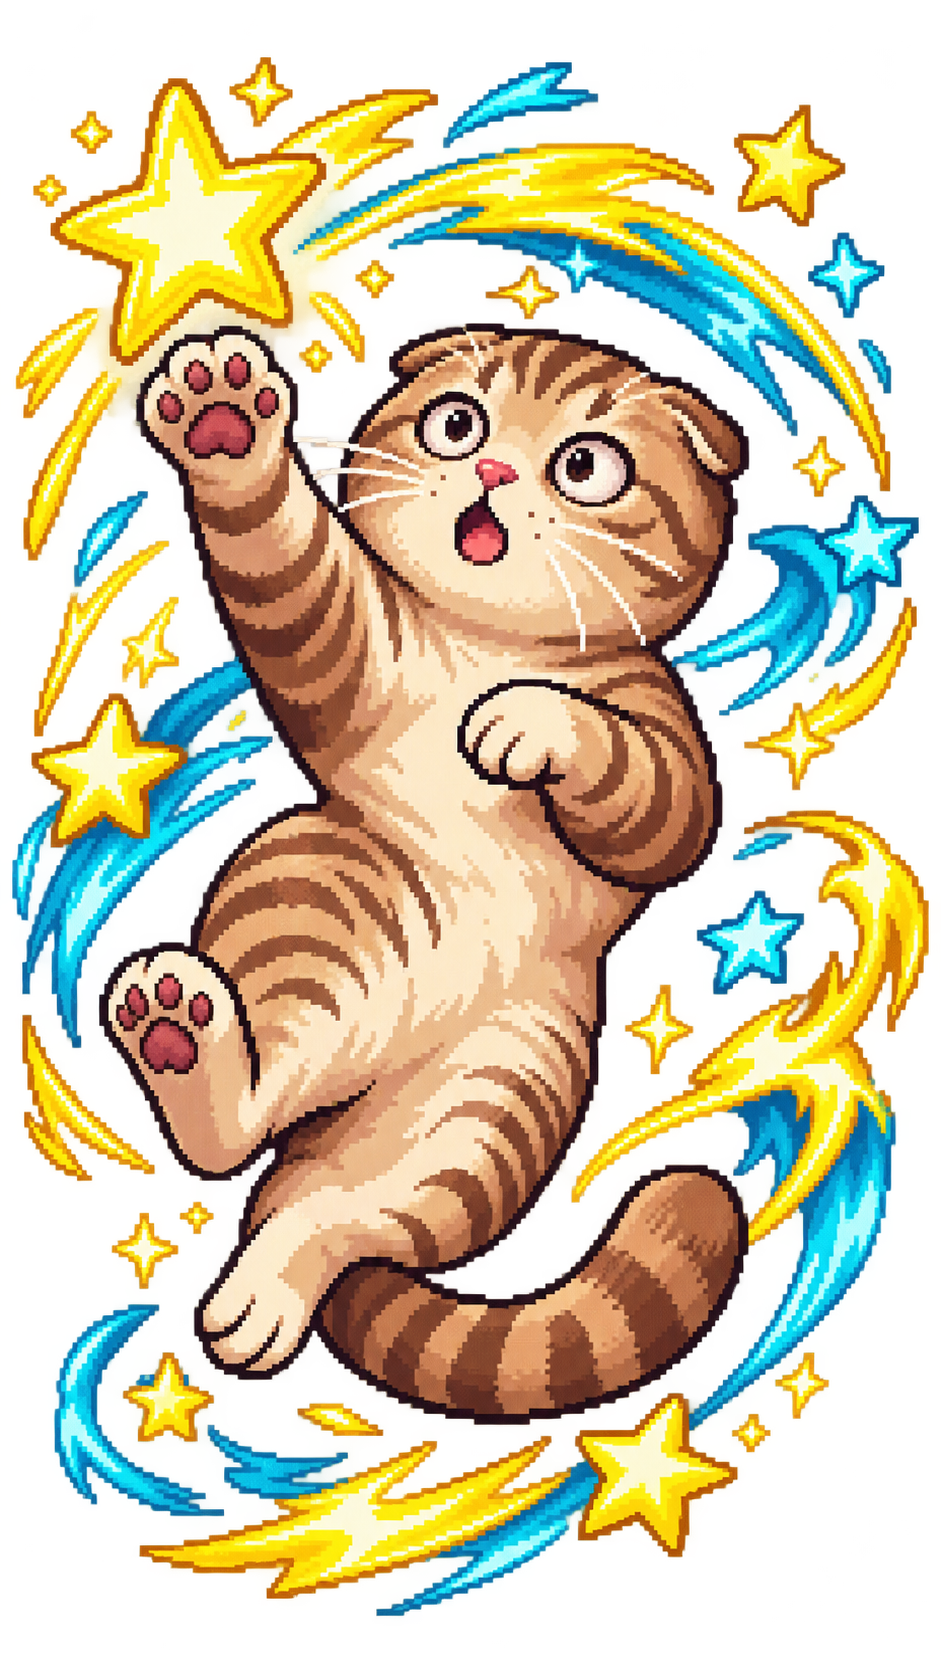
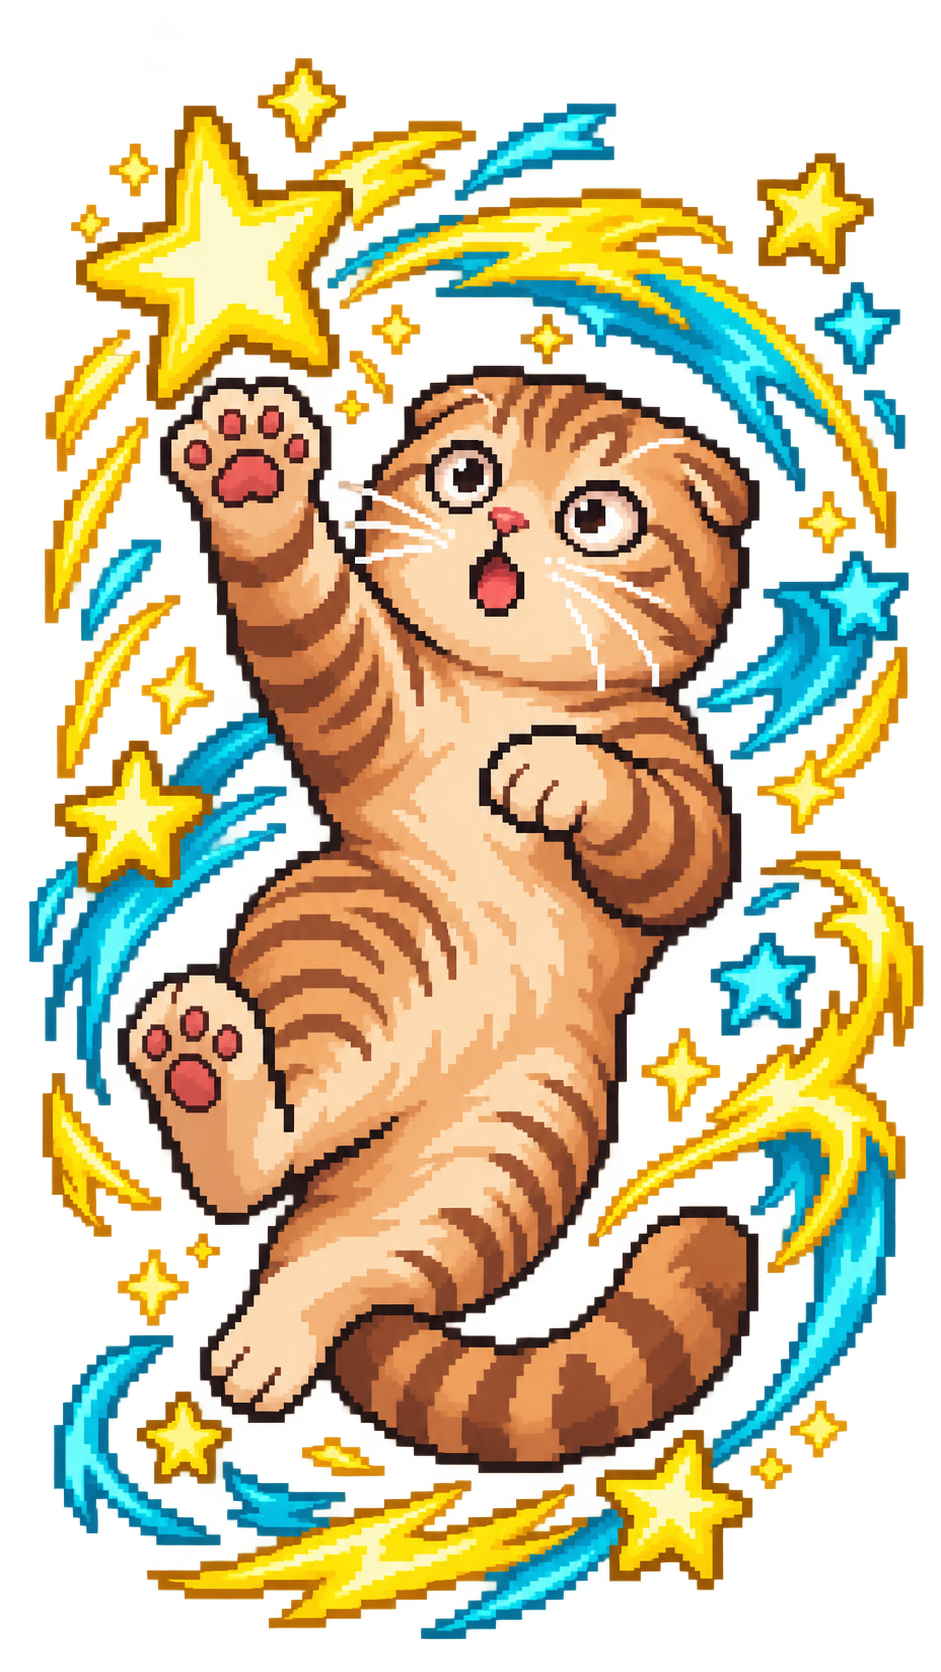
Puiutu: Scottish Fold and Ragdoll cards redrawn as real pixel art
ChatGPT redraws matching the Siamese / Russian Blue pixel style, fitted with
make_skin_cards.py; trim boxes updated; site deck uses the same art.

diff --git a/life_of_puiutu_game.html b/life_of_puiutu_game.html
@@ -15902,8 +15902,8 @@ function gachaPool(rar){
 }
 // content box [x0,y0,x1,y1] of each skins/cards/skin_<id>_big.webp (alpha > 128, so faint stray pixels don't count)
 const SKIN_ART_TRIM={abyssinian:[13,162,696,1166], american:[24,43,696,1252], angora:[49,80,671,998], british:[40,118,691,1236],
-  calico:[14,162,701,1155], goldbengal:[24,209,701,1242], mainecoon:[51,163,706,1167], ragdoll:[17,43,703,1247],
-  russianblue:[13,194,707,1153], scottish:[17,64,703,1226], siamese:[78,172,663,1182], silvbengal:[51,156,667,1183],
+  calico:[14,162,701,1155], goldbengal:[24,209,701,1242], mainecoon:[51,163,706,1167], ragdoll:[0,17,720,1273],
+  russianblue:[13,194,707,1153], scottish:[0,9,720,1281], siamese:[78,172,663,1182], silvbengal:[51,156,667,1183],
   sphynx:[56,177,664,1204]};
 // per-skin zoom on top of the fill rule (<1 = zoomed out, shows more of the art around the cat)
 const SKIN_ART_ZOOM={american:.88};

diff --git a/site/make_skin_cards.py b/site/make_skin_cards.py
@@ -1,30 +1,24 @@
-# Turns the ChatGPT skin redraws (site/art_src/skin_<id>.png) into game cards that match the
-# chunky pixel grid of the other cards: ~7px blocks at 720 wide, limited palette, hard alpha.
+# Fits the ChatGPT pixel-art skin redraws (site/art_src/skin_<id>.png) into 720x1290 game cards.
+# The redraws are already pixel art (blocks ~8px, not on an exact grid), so they are only cropped,
+# scaled to fit and given a hard alpha edge; no re-gridding, which muddies the colours.
 import os, sys
 import numpy as np
-from PIL import Image, ImageFilter
+from PIL import Image
 R = os.path.dirname(os.path.dirname(os.path.abspath(__file__)))
-BLOCK, W, H = 7, 720, 1290
+W, H = 720, 1290
 
-def card(n, margin=0.04):
+def card(n):
     im = Image.open(os.path.join(R, f'site/art_src/skin_{n}.png')).convert('RGBA')
-    a = np.array(im); a[..., 3] = np.where(a[..., 3] > 30, a[..., 3], 0); im = Image.fromarray(a)
+    a = np.array(im); a[..., 3] = np.where(a[..., 3] > 110, 255, 0); im = Image.fromarray(a)
     im = im.crop(im.getbbox())
-    gw, gh = W // BLOCK, H // BLOCK                      # the pixel grid
-    s = min(gw * (1 - margin) / im.width, gh * (1 - margin) / im.height)
-    im = im.filter(ImageFilter.UnsharpMask(radius=2, percent=120, threshold=2))   # keep outlines through the shrink
-    small = im.resize((max(1, round(im.width * s)), max(1, round(im.height * s))), Image.BOX)
-    sa = np.array(small); alpha = sa[..., 3] > 110
-    px = np.dstack([sa[..., :3], np.where(alpha, 255, 0).astype('uint8')])
-    grid = Image.new('RGBA', (gw, gh), (0, 0, 0, 0))
-    grid.alpha_composite(Image.fromarray(px), ((gw - small.width) // 2, (gh - small.height) // 2))
-    big = grid.resize((gw * BLOCK, gh * BLOCK), Image.NEAREST)
-    out = Image.new('RGBA', (W, H), (0, 0, 0, 0)); out.alpha_composite(big, ((W - big.width) // 2, (H - big.height) // 2))
-    out.save(os.path.join(R, f'skins/cards/skin_{n}_big.webp'), 'WEBP', lossless=True)
-    out.resize((W // 2, H // 2), Image.NEAREST).save(os.path.join(R, f'skins/cards/skin_{n}.webp'), 'WEBP', lossless=True)
+    s = min(W / im.width, H / im.height)
+    im = im.resize((round(im.width * s), round(im.height * s)), Image.LANCZOS)
+    a = np.array(im); a[..., 3] = np.where(a[..., 3] > 128, 255, 0); im = Image.fromarray(a)
+    out = Image.new('RGBA', (W, H), (0, 0, 0, 0)); out.alpha_composite(im, ((W - im.width) // 2, (H - im.height) // 2))
+    out.save(os.path.join(R, f'skins/cards/skin_{n}_big.webp'), 'WEBP', quality=90)
+    out.resize((W // 2, H // 2), Image.LANCZOS).save(os.path.join(R, f'skins/cards/skin_{n}.webp'), 'WEBP', quality=90)
     m = np.array(out)[..., 3] > 128; ys, xs = np.nonzero(m)
-    print(n, 'trim', [int(xs.min()), int(ys.min()), int(xs.max()) + 1, int(ys.max()) + 1],
-          os.path.getsize(os.path.join(R, f'skins/cards/skin_{n}_big.webp')) // 1024, 'KB')
+    print(n, 'trim', [int(xs.min()), int(ys.min()), int(xs.max()) + 1, int(ys.max()) + 1])
 
 for n in (sys.argv[1:] or ['scottish', 'ragdoll']):
     card(n)

diff --git a/site/make_puiutu_crisp.py b/site/make_puiutu_crisp.py
@@ -58,4 +58,4 @@ def card_cutout(src, name, w=360):
 for _card in ['scottish', 'ragdoll']:
     _im = Image.open(os.path.join(R, f'skins/cards/skin_{_card}_big.webp')).convert('RGBA')
     _im = _im.crop(_im.getbbox())
-    _im.resize((360, round(_im.height * 360 / _im.width)), Image.NEAREST).save(os.path.join(R, 'site/art', f'skin_{_card}.webp'), 'WEBP', lossless=True)
+    _im.resize((360, round(_im.height * 360 / _im.width)), Image.LANCZOS).save(os.path.join(R, 'site/art', f'skin_{_card}.webp'), 'WEBP', quality=90)
